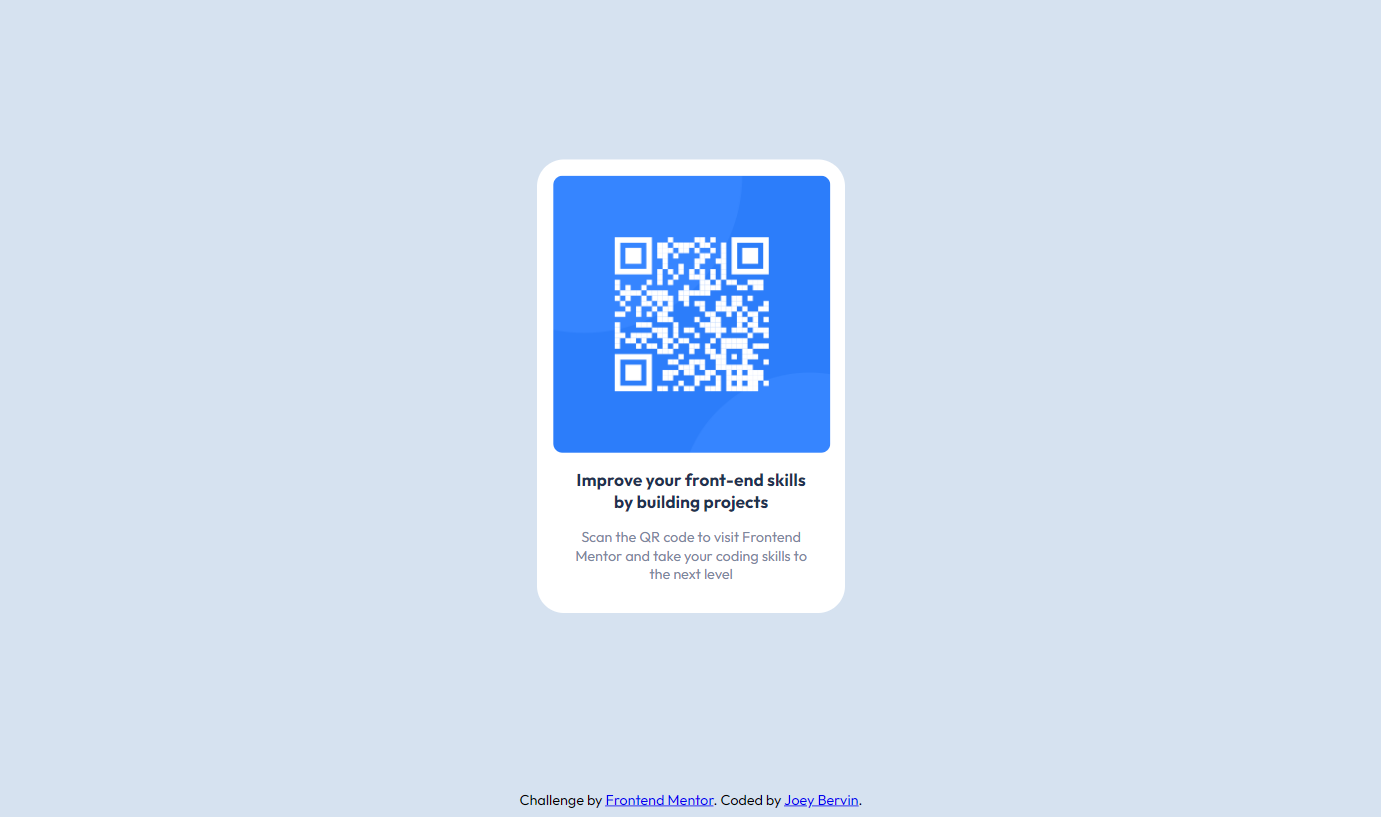
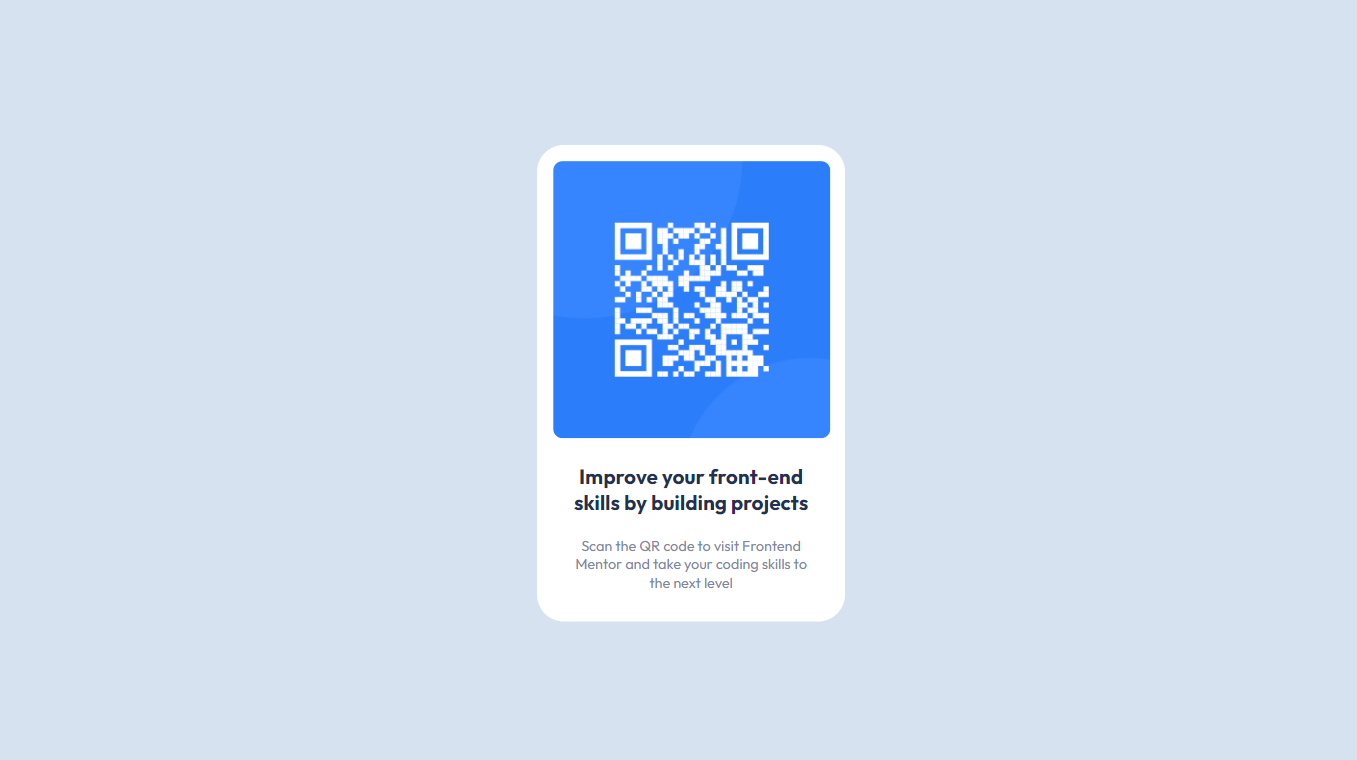
small changements

Changed region(s): [[0.3714, 0.1816, 0.65, 0.8171], [0.3714, 0.9684, 0.619, 0.9987]]

diff --git a/qr-code-component-main/index.html b/qr-code-component-main/index.html
@@ -20,7 +20,7 @@
       <div>
         <img src="./assets/images/image-qr-code.png" alt="qr code redirigeant vers la homepage de Front-end Mentor">
         <div>
-            <h1>Improve your front-end skills by building projects</h1>
+            <p>Improve your front-end skills by building projects</p>
             <p>Scan the QR code to visit Frontend Mentor and take your coding skills to the next level</p>
         </div>
       </div>

diff --git a/qr-code-component-main/style.css b/qr-code-component-main/style.css
@@ -32,12 +32,12 @@ main > div {
 div > div {
     margin: 0 20px;
 }
-h1 {
+main p:nth-child(1) {
     font-weight: 700; 
     color: hsl(218, 44%, 22%);
-    font-size: 18px;
+    font-size: 21.5px;
 }
-main p:first-of-type {
+main p:nth-child(2) {
     color : hsl(220, 15%, 55%);
 }
 img {

diff --git a/README.md b/README.md
@@ -2,8 +2,8 @@
 
  Regroup the Frontend Mentor challenges I made.
 
-| **Projets**| Stack | Level |
+| **Projets**| Stack |
 |---------------------------------------|-------------------------|-----------------|
-| [Results summary component](https://github.com/Joeybervin/Fontend_Mentor/tree/main/results-summary-component-main/results-summary-component-main) | HTML, CSS | |
-| [Results summary component](https://github.com/Joeybervin/Fontend_Mentor/tree/main/results-summary-component-main/results-summary-component-main) | HTML, CSS | |
+| [Results summary component](https://github.com/Joeybervin/Fontend_Mentor/tree/main/results-summary-component-main/results-summary-component-main) | HTML, CSS |
+| [Results summary component](https://github.com/Joeybervin/Fontend_Mentor/tree/main/qr-code-component-main) | HTML, CSS |
 
